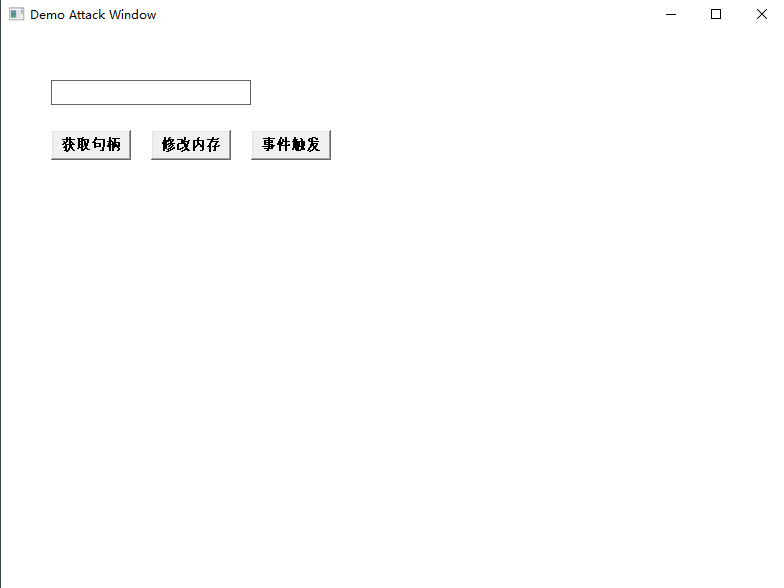
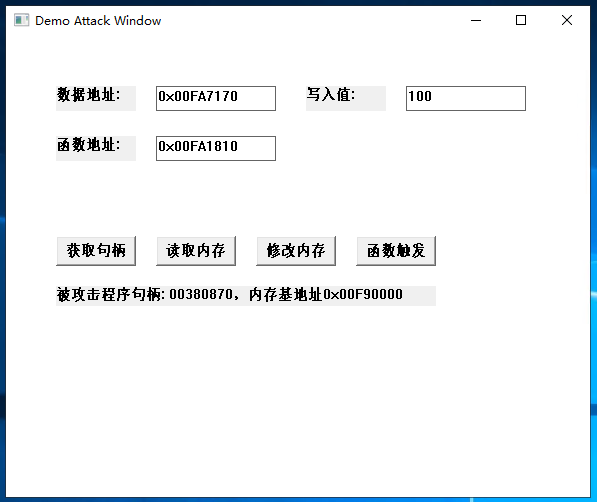
attack

diff --git a/docs/技术文章/c/AppAttack.md b/docs/技术文章/c/AppAttack.md
@@ -7,6 +7,10 @@ categories:
 - 'C'
 ---
 本文介绍如何攻击程序一个应用进程，包括修改内存数据，事件拦截。  
+
+* 通过CE、OD工具进行攻击
+* 通过windows api进行攻击
+
 CE官网地址：[https://www.cheatengine.org](https://www.cheatengine.org)  
 OD官网地址：[https://www.ollydbg.de](https://www.ollydbg.de)  
 被攻击程序源码：[https://github.com/zz-c/CMAKE/tree/main/windows_test](https://github.com/zz-c/CMAKE/tree/main/windows_test)  
@@ -15,24 +19,33 @@ OD官网地址：[https://www.ollydbg.de](https://www.ollydbg.de)
 ## CE使用
 
 找出和修改程序数据的内存地址。  
-![ce](./AppAttack.assets/ce.png)
+![ce](./AppAttack.assets/ce.png)  
+找到变量的内存地址0x00FA7170=程序基地址+0x17170。
 
 ## OD使用
 
-修改程序数据的内存地址。  
-拦截CALL事件。  
 ![od](./AppAttack.assets/od.png)  
+
+### 修改程序数据的内存地址
+
 Ctrl+G 搜索需要查找的内存地址。  
 选择数值->右键点击->Binary->Edit。进行内存地址数值修改。  
+![od2](./AppAttack.assets/od2.png)  
+
+### 拦截CALL事件
+
 Alt+F1调出Command line。  
 输入 "hw ${内存地址}" 设置硬件断点，内存被修改时触发。  
-找到触发修改内存call的地址。  
+![od3](./AppAttack.assets/od3.png)  
+往上找到触发修改内存call函数的地址0x00FA1810。  
 
 ## 攻击程序使用
 
 ![attack](./AppAttack.assets/attack.png)
 
 ## 源码windows api说明
+
+获取窗口句柄->获取窗口进程ID->获取进程句柄->操作
 
 ### 获取窗口句柄
 
@@ -74,7 +87,7 @@ DWORD GetWindowThreadProcessId(
 );
 ```
 
-### 打开指定进程
+### 获取进程句柄
 
 ```C
 HANDLE OpenProcess(
